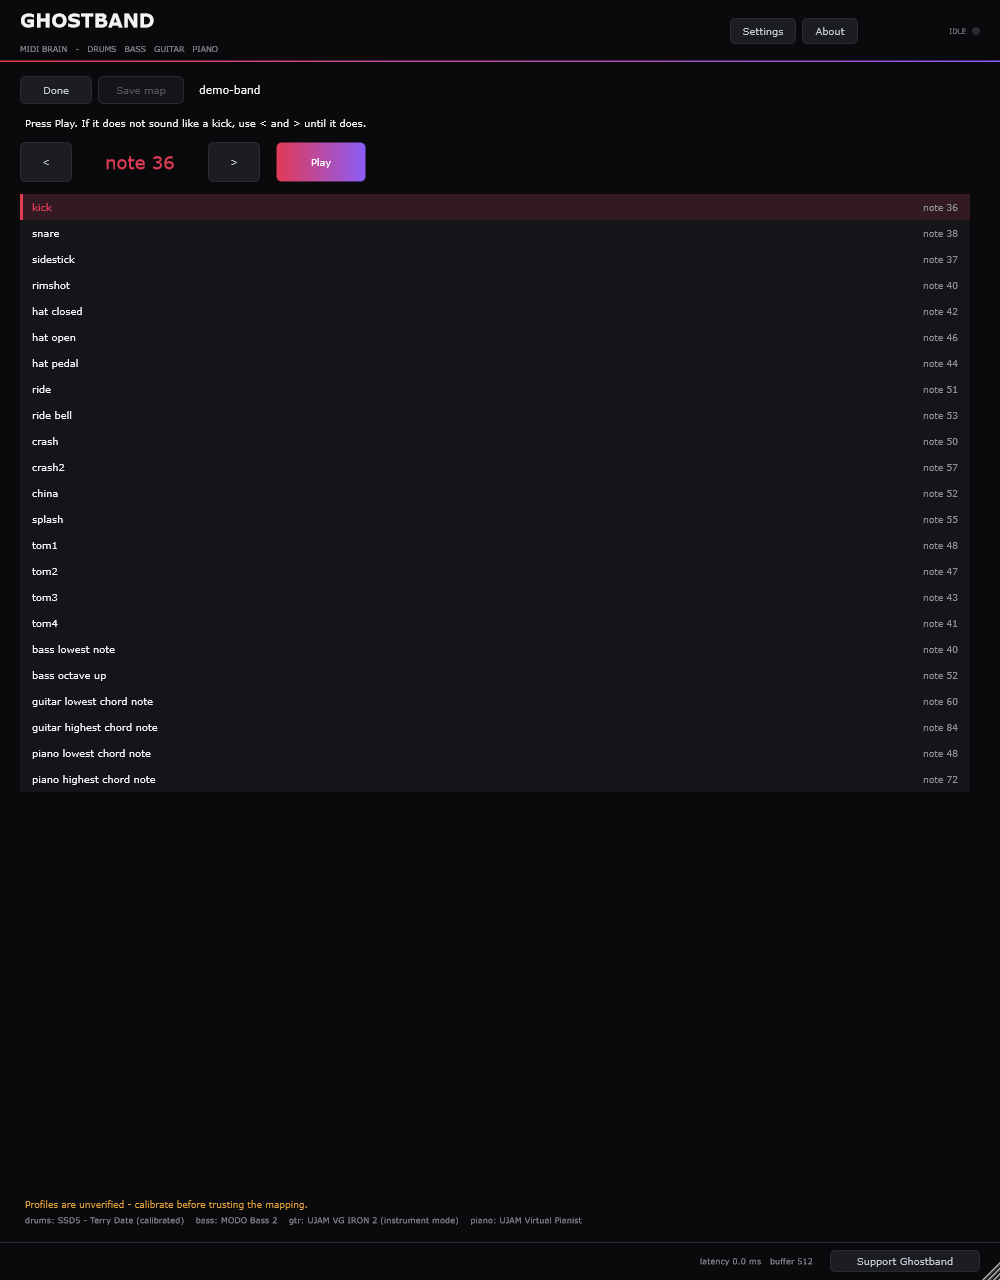
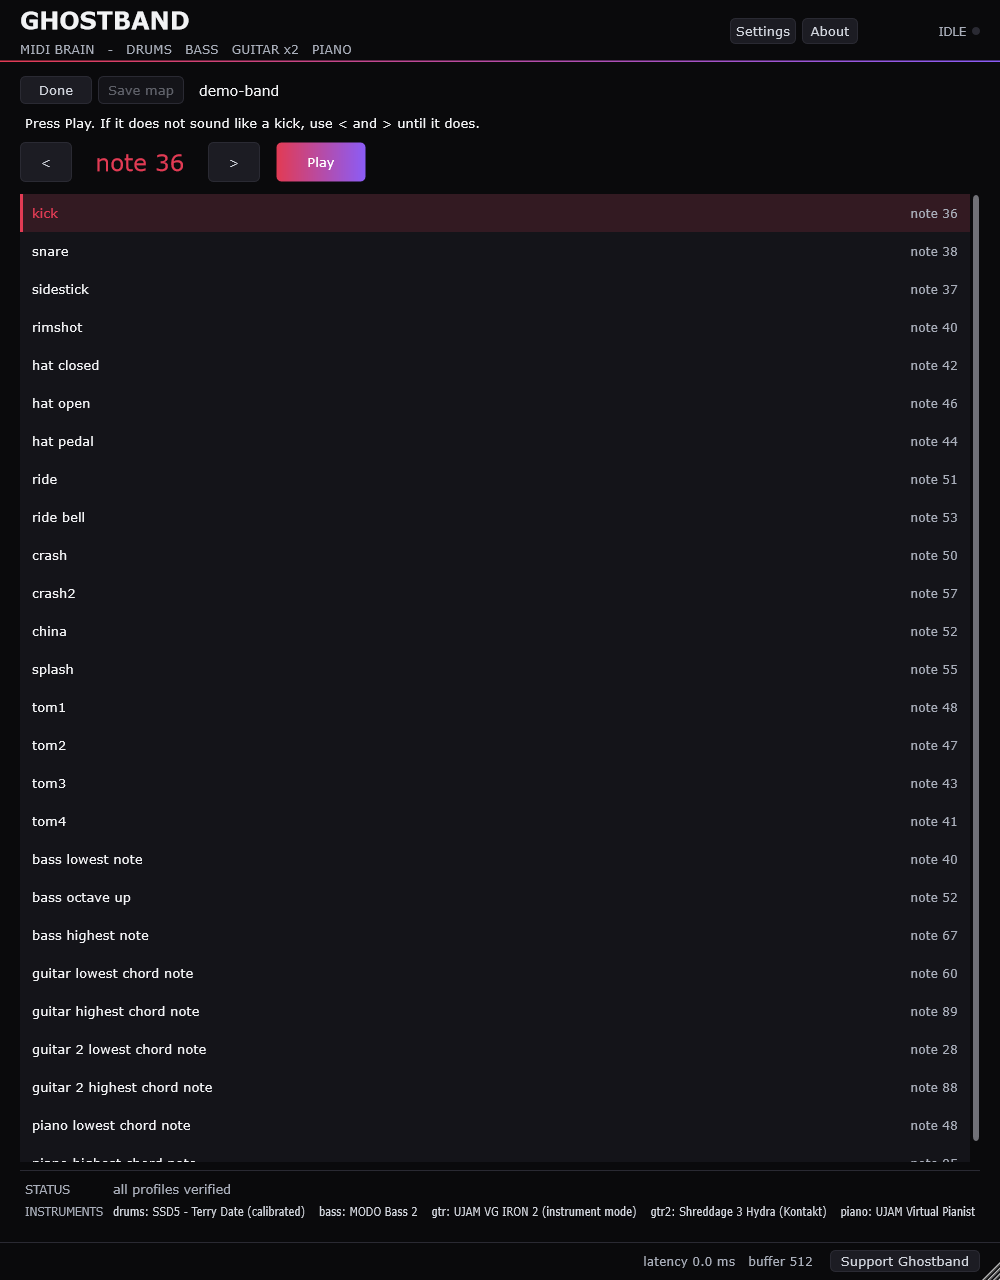
Fresh screenshots, and three faults they exposed
The owner sent screenshots for the repo. They cannot be used directly - the
harness RENDERS these by instantiating the real editor and painting it
offline, so a screenshot cannot be touched up or drift from what the code
does. If one shows something wrong, the plugin is wrong.

Which is what made them useful. Three real faults:

  The About screen still said "drums, bass, guitar and piano". One guitar,
  months out of date.

  A PIANO mix knob on preset-punk, which has no piano. partVolumeReachable
  answers "can anything move its volume", and that is true of a piano which
  is not in the song at all. A control for an instrument that is not playing
  is the same fault as a control that does nothing, and this project keeps
  rediscovering that one.

  An orphaned STATUS caption. The message is blank when nothing is wrong,
  which used to be rare and is now the common case - so the footer showed a
  caption with nothing beside it, reading as a value that failed to load
  rather than as good news. It says "all profiles verified".

Also: I copied the wrong files first. The harness emits a 600x720 set for
the overlap checker and a 1000px "-docs" set for documentation, and the
overlap ones are the ones named without a suffix - so the easy mistake is
putting a cramped 600px window in the README. Written into the screenshot
README so the next person does not make it.

Reference songs unchanged - 1231/629 and 996/423.

diff --git a/plugin/PluginEditor.cpp b/plugin/PluginEditor.cpp
@@ -1882,7 +1882,13 @@ void GhostbandEditor::refreshFromProcessor()
         summaryLabel.setText ({}, juce::dontSendNotification);
     }
 
-    statusLabel.setText (s.message, juce::dontSendNotification);
+    // Never an empty caption. The status message is blank when there is nothing
+    // wrong, which left "STATUS" sitting on the footer with nothing beside it -
+    // reading as a value that failed to load rather than as good news. Now that
+    // every profile can actually be marked verified, blank is the common case.
+    statusLabel.setText (s.message.isNotEmpty() ? s.message
+                                                : juce::String ("all profiles verified"),
+                         juce::dontSendNotification);
     statusLabel.setColour (juce::Label::textColourId,
                            s.unverifiedProfiles || ! s.ok ? ghost::warn : ghost::dim);
 
@@ -2065,7 +2071,7 @@ void GhostbandEditor::paintAbout (juce::Graphics& g, juce::Rectangle<int> area)
     }
 
     block ("Ghostband makes no sound of its own. It writes an arrangement - drums, "
-           "bass, guitar and piano - and performs it through the instruments you "
+           "bass, two guitars and piano - and performs it through the instruments you "
            "already own, by sending them MIDI.",
            juce::Font (juce::FontOptions (17.5f)), ghost::colours::text, 12);
 
@@ -2496,7 +2502,14 @@ void GhostbandEditor::resized()
 
     for (int i = 0; i < 5; ++i)
     {
-        const bool reachable = processor.partVolumeReachable (partForKnob[i]);
+        // A knob only for a part this song actually has. partVolumeReachable
+        // answers "can anything move its volume", which is true of a piano
+        // that is not in the song at all - so preset-punk, which has no piano,
+        // drew a PIANO knob that reached nothing. A control for an instrument
+        // that is not playing is the same fault as a control that does nothing,
+        // and this project keeps rediscovering that one.
+        const bool reachable = processor.partIsInSong (partForKnob[i])
+                            && processor.partVolumeReachable (partForKnob[i]);
 
         // Only the song screen ever positions these, so only it may show them -
         // resized() runs last after a screen change and would otherwise unhide

diff --git a/docs/screenshots/README.md b/docs/screenshots/README.md
@@ -15,4 +15,10 @@ then copy `editor-<screen>-docs.png` over the matching file here, dropping the
 bottom of `test/PluginHarness.cpp`, one per screen.
 
 The same run also produces a `600x720` set and a couple of oversized ones. Those
-are for the overlap checker rather than for documentation, and are not kept.
+are for the overlap checker rather than for documentation, and are not kept -
+copying those in by mistake is easy, since they are the ones named without a
+suffix, and it puts a cramped 600px window in the README.
+
+These always render in the DEFAULT theme regardless of which of the eight the
+owner is using. A screenshot of somebody else's colour scheme tells a reader
+nothing about the plugin.
